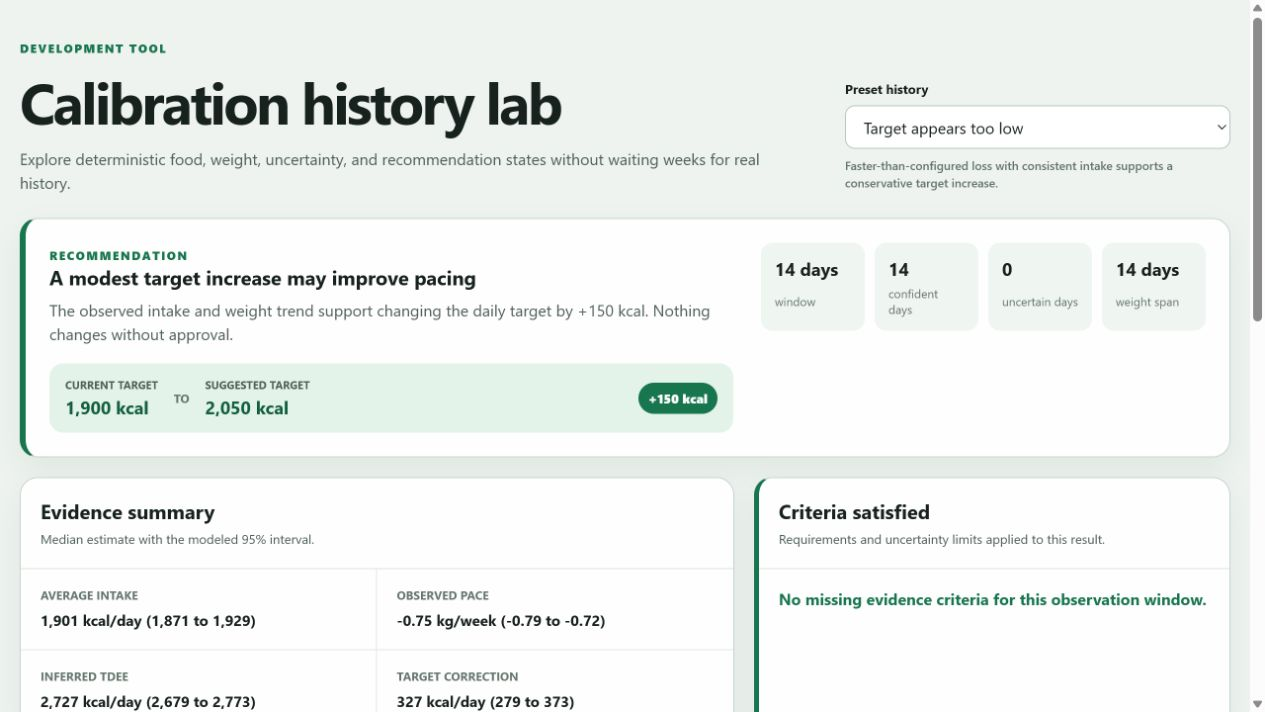
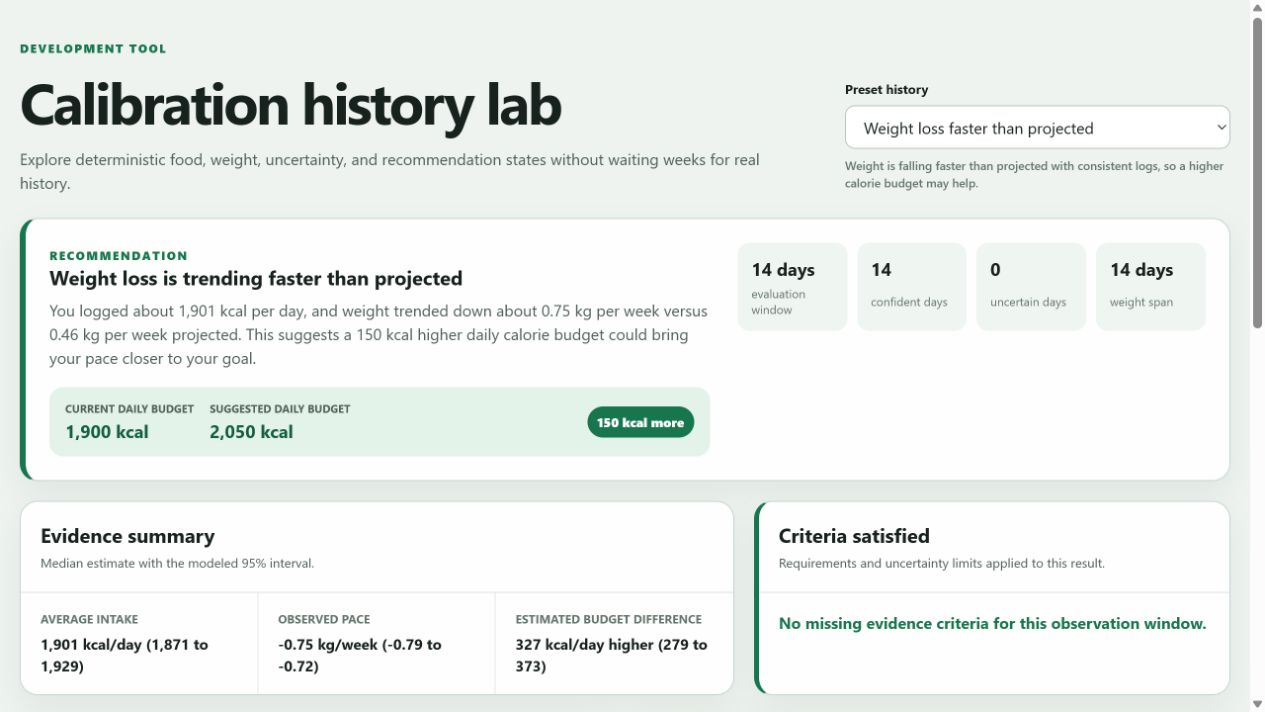
Make calibration recommendations direct

diff --git a/mobile/src/components/CalibrationInsightCard.tsx b/mobile/src/components/CalibrationInsightCard.tsx
@@ -13,7 +13,8 @@ import { SectionHeader } from './SectionHeader';
 import { useAuth } from '../auth/AuthContext';
 import {
     describeCalibrationEvidence,
-    formatCalorieInterval,
+    formatCalorieBudgetChange,
+    formatCalorieBudgetInterval,
     formatWeightPace
 } from '../calibration/presentation';
 import { formatDateOnlyForDisplay } from '../utils/dates';
@@ -92,13 +93,13 @@ export const CalibrationInsightCard: React.FC<ViewProps> = ({ style, ...props })
                     <View style={styles.scheduledRow}>
                         <Ionicons name="calendar-outline" size={18} color={colors.primaryDark} />
                         <AppText style={styles.scheduledText}>
-                            Accepted adjustment {scheduledChange.targetAdjustmentKcal > 0 ? '+' : ''}{scheduledChange.targetAdjustmentKcal} kcal starts {formatDateOnlyForDisplay(scheduledChange.effectiveLocalDate)}.
+                            Your {formatCalorieBudgetChange(scheduledChange.targetAdjustmentKcal)} daily calorie budget starts {formatDateOnlyForDisplay(scheduledChange.effectiveLocalDate)}.
                         </AppText>
                     </View>
                 )}
                 {status?.recommendation && recommendation && (
                     <AppButton
-                        title="Review suggested target"
+                        title="Review suggested budget"
                         variant="secondary"
                         leftIcon={<Ionicons name="options-outline" size={18} color={colors.text} />}
                         onPress={() => setIsReviewOpen(true)}
@@ -108,18 +109,18 @@ export const CalibrationInsightCard: React.FC<ViewProps> = ({ style, ...props })
 
             <BottomSheetModal visible={isReviewOpen} onRequestClose={() => setIsReviewOpen(false)}>
                 <SectionHeader
-                    title="Review calorie target"
-                    description="This changes the calibrated target, not your configured deficit goal."
+                    title="Review calorie budget"
+                    description="Compare the current and suggested daily budgets. Your weight goal stays the same."
                 />
                 {recommendation && (
                     <>
                         <View style={styles.tileRow}>
-                            <MetricTile label="current target" value={`${recommendation.currentTargetKcal.toLocaleString()} kcal`} />
-                            <MetricTile label="suggested target" value={`${recommendation.recommendedTargetKcal.toLocaleString()} kcal`} tone="success" />
+                            <MetricTile label="current budget" value={`${recommendation.currentTargetKcal.toLocaleString()} kcal`} />
+                            <MetricTile label="suggested budget" value={`${recommendation.recommendedTargetKcal.toLocaleString()} kcal`} tone="success" />
                         </View>
                         <View style={styles.tileRow}>
                             <MetricTile label="observed pace" value={formatWeightPace(evaluation.estimates.observedWeeklyWeightChangeKg)} />
-                            <MetricTile label="estimated correction" value={formatCalorieInterval(evaluation.estimates.targetAdjustmentKcal)} />
+                            <MetricTile label="estimated budget difference" value={formatCalorieBudgetInterval(evaluation.estimates.targetAdjustmentKcal)} />
                         </View>
                     </>
                 )}
@@ -133,12 +134,12 @@ export const CalibrationInsightCard: React.FC<ViewProps> = ({ style, ...props })
                     </View>
                 )}
                 <AppText variant="caption">
-                    If accepted, the adjustment takes effect on your next local day. Future evidence can support another bounded change.
+                    If you apply this budget, it starts on your next local day. You can review future suggestions the same way.
                 </AppText>
                 {applyRecommendation.error && <AppText style={styles.error}>{applyRecommendation.error.message}</AppText>}
                 <View style={styles.actions}>
                     <AppButton
-                        title="Keep current target"
+                        title="Keep current budget"
                         variant="secondary"
                         disabled={applyRecommendation.isPending}
                         onPress={() => setIsReviewOpen(false)}

diff --git a/shared/calibration.ts b/shared/calibration.ts
@@ -474,6 +474,31 @@ function emptyQuality(): CalibrationDataQuality {
     };
 }
 
+function describeRecommendationPace(observedWeeklyKg: number, configuredWeeklyKg: number): string {
+    if (configuredWeeklyKg < -0.01) {
+        return observedWeeklyKg < configuredWeeklyKg
+            ? 'Weight loss is trending faster than projected'
+            : 'Weight loss is trending slower than projected';
+    }
+    if (configuredWeeklyKg > 0.01) {
+        return observedWeeklyKg > configuredWeeklyKg
+            ? 'Weight gain is trending faster than projected'
+            : 'Weight gain is trending slower than projected';
+    }
+    if (observedWeeklyKg < -0.01) return 'Weight is trending down instead of staying steady';
+    return 'Weight is trending up instead of staying steady';
+}
+
+function describeWeeklyTrend(weeklyKg: number): string {
+    if (Math.abs(weeklyKg) <= 0.01) return 'weight stayed about steady';
+    return `weight trended ${weeklyKg < 0 ? 'down' : 'up'} about ${Math.abs(weeklyKg).toFixed(2)} kg per week`;
+}
+
+function describeProjectedWeeklyTrend(weeklyKg: number): string {
+    if (Math.abs(weeklyKg) <= 0.01) return 'staying steady as projected';
+    return `${Math.abs(weeklyKg).toFixed(2)} kg per week projected`;
+}
+
 /**
  * Evaluate recent intake and weight evidence without mutating state.
  *
@@ -540,8 +565,11 @@ export function evaluateCalibration(input: CalibrationInput): CalibrationResult 
         summary = 'Keep logging food across multiple meals and recording weights. Missing days remain part of the uncertainty rather than being ignored.';
     } else if (recommendation) {
         status = 'recommendation';
-        headline = recommendation.adjustmentStepKcal < 0 ? 'A modest target decrease may improve pacing' : 'A modest target increase may improve pacing';
-        summary = `The observed intake and weight trend support changing the daily target by ${recommendation.adjustmentStepKcal > 0 ? '+' : ''}${recommendation.adjustmentStepKcal} kcal. Nothing changes without approval.`;
+        const observedWeekly = selected.weeklyWeightChange?.midpoint ?? 0;
+        const averageIntake = Math.round(selected.averageIntake?.midpoint ?? 0).toLocaleString('en-US');
+        const budgetDirection = recommendation.adjustmentStepKcal < 0 ? 'lower' : 'higher';
+        headline = describeRecommendationPace(observedWeekly, configuredWeeklyWeightChangeKg);
+        summary = `You logged about ${averageIntake} kcal per day, and ${describeWeeklyTrend(observedWeekly)} versus ${describeProjectedWeeklyTrend(configuredWeeklyWeightChangeKg)}. This suggests a ${Math.abs(recommendation.adjustmentStepKcal)} kcal ${budgetDirection} daily calorie budget could bring your pace closer to your goal.`;
     } else {
         status = 'insight';
         const weekly = selected.weeklyWeightChange?.midpoint ?? 0;

diff --git a/tools/calibration-lab/main.js b/tools/calibration-lab/main.js
@@ -1,4 +1,4 @@
-import { formatDayCount, getWindowMetric } from './presentation.mjs';
+import { formatBudgetChange, formatBudgetInterval, formatDayCount, getWindowMetric } from './presentation.mjs';
 
 const elements = {
   scenario: document.querySelector('#preset-history'),
@@ -61,8 +61,8 @@ function renderResult(result) {
   elements.targetChange.hidden = !result.recommendation;
   if (result.recommendation) {
     for (const [label, value] of [
-      ['Current target', `${formatNumber(result.recommendation.currentTargetKcal)} kcal`],
-      ['Suggested target', `${formatNumber(result.recommendation.recommendedTargetKcal)} kcal`]
+      ['Current daily budget', `${formatNumber(result.recommendation.currentTargetKcal)} kcal`],
+      ['Suggested daily budget', `${formatNumber(result.recommendation.recommendedTargetKcal)} kcal`]
     ]) {
       const group = document.createElement('span');
       const small = document.createElement('small');
@@ -74,7 +74,7 @@ function renderResult(result) {
     }
     const change = document.createElement('em');
     const step = result.recommendation.adjustmentStepKcal;
-    change.textContent = `${step > 0 ? '+' : ''}${step} kcal`;
+    change.textContent = formatBudgetChange(step);
     elements.targetChange.append(change);
   }
 
@@ -89,7 +89,7 @@ function renderResult(result) {
   const estimates = [
     ['Average intake', formatInterval(result.estimates.averageIntakeKcal, 'kcal/day')],
     ['Observed pace', formatInterval(result.estimates.observedWeeklyWeightChangeKg, 'kg/week', 2)],
-    ['Target correction', formatInterval(result.estimates.targetAdjustmentKcal, 'kcal/day')]
+    ['Estimated budget difference', formatBudgetInterval(result.estimates.targetAdjustmentKcal)]
   ];
   for (const [label, value] of estimates) {
     const item = document.createElement('div');

diff --git a/mobile/src/calibration/presentation.test.ts b/mobile/src/calibration/presentation.test.ts
@@ -1,11 +1,16 @@
-import { describeCalibrationEvidence, formatCalorieInterval, formatWeightPace } from './presentation';
+import {
+    describeCalibrationEvidence,
+    formatCalorieBudgetChange,
+    formatCalorieBudgetInterval,
+    formatWeightPace
+} from './presentation';
 
 describe('calibration presentation', () => {
     it('formats transparent intervals rather than showing false precision', () => {
-        expect(formatCalorieInterval({ low: 2100.2, midpoint: 2210.6, high: 2325.1 }))
-            .toBe('2,211 kcal (2,100 to 2,325)');
-        expect(formatCalorieInterval({ low: -484.2, midpoint: -349.3, high: -188.1 }))
-            .toBe('-349 kcal (-484 to -188)');
+        expect(formatCalorieBudgetInterval({ low: 2100.2, midpoint: 2210.6, high: 2325.1 }))
+            .toBe('2,211 kcal higher (2,100 to 2,325)');
+        expect(formatCalorieBudgetInterval({ low: -484.2, midpoint: -349.3, high: -188.1 }))
+            .toBe('349 kcal lower (188 to 484)');
         expect(formatWeightPace({ low: -0.5, midpoint: -0.32, high: -0.1 })).toBe('-0.32 kg/week');
     });
 
@@ -23,5 +28,10 @@ describe('calibration presentation', () => {
                 weightSpanDays: 20
             }
         } as never)).toBe('16 confident food days | 9 weights across 20 days | 3 uncertain days');
+    });
+
+    it('describes calorie budget changes without ambiguous signs', () => {
+        expect(formatCalorieBudgetChange(-150)).toBe('150 kcal lower');
+        expect(formatCalorieBudgetChange(150)).toBe('150 kcal higher');
     });
 });

diff --git a/backend/test/calibration-evaluator.test.js b/backend/test/calibration-evaluator.test.js
@@ -91,6 +91,11 @@ test('caps an actionable target correction at 150 kcal', () => {
   assert.equal(result.selectedWindowDays, 14);
   assert.equal(result.recommendation.adjustmentStepKcal, -150);
   assert.equal(result.recommendation.recommendedTargetKcal, 1750);
+  assert.equal(result.headline, 'Weight loss is trending slower than projected');
+  assert.match(result.summary, /logged about 1,900 kcal per day/);
+  assert.match(result.summary, /weight trended down about 0\.23 kg per week versus 0\.46 kg per week projected/);
+  assert.match(result.summary, /150 kcal lower daily calorie budget/);
+  assert.doesNotMatch(result.summary, /approval|target decrease|change the daily target/i);
 });
 
 test('caps an upward target correction at 150 kcal', () => {
@@ -98,6 +103,10 @@ test('caps an upward target correction at 150 kcal', () => {
   assert.equal(result.status, 'recommendation');
   assert.equal(result.recommendation.adjustmentStepKcal, 150);
   assert.equal(result.recommendation.recommendedTargetKcal, 2050);
+  assert.equal(result.headline, 'Weight loss is trending faster than projected');
+  assert.match(result.summary, /weight trended down about 0\.75 kg per week versus 0\.46 kg per week projected/);
+  assert.match(result.summary, /150 kcal higher daily calorie budget/);
+  assert.doesNotMatch(result.summary, /approval|target increase|change the daily target/i);
 });
 
 test('requires at least three weights before recommending a change', () => {

diff --git a/mobile/src/calibration/presentation.ts b/mobile/src/calibration/presentation.ts
@@ -1,7 +1,13 @@
 import type { CalibrationInterval, CalibrationResult } from '@calibrate/shared';
 
-export function formatCalorieInterval(value: CalibrationInterval | null): string {
+export function formatCalorieBudgetInterval(value: CalibrationInterval | null): string {
     if (!value) return 'Not enough evidence';
+    if (value.high < 0) {
+        return `${Math.abs(Math.round(value.midpoint)).toLocaleString()} kcal lower (${Math.abs(Math.round(value.high)).toLocaleString()} to ${Math.abs(Math.round(value.low)).toLocaleString()})`;
+    }
+    if (value.low > 0) {
+        return `${Math.round(value.midpoint).toLocaleString()} kcal higher (${Math.round(value.low).toLocaleString()} to ${Math.round(value.high).toLocaleString()})`;
+    }
     return `${Math.round(value.midpoint).toLocaleString()} kcal (${Math.round(value.low).toLocaleString()} to ${Math.round(value.high).toLocaleString()})`;
 }
 
@@ -9,6 +15,10 @@ export function formatWeightPace(value: CalibrationInterval | null): string {
     if (!value) return 'Not enough evidence';
     const sign = value.midpoint > 0 ? '+' : '';
     return `${sign}${value.midpoint.toFixed(2)} kg/week`;
+}
+
+export function formatCalorieBudgetChange(stepKcal: number): string {
+    return `${Math.abs(stepKcal)} kcal ${stepKcal < 0 ? 'lower' : 'higher'}`;
 }
 
 export function describeCalibrationEvidence(result: CalibrationResult): string {

diff --git a/shared/calibrationScenarios.ts b/shared/calibrationScenarios.ts
@@ -114,8 +114,8 @@ export const CALIBRATION_SCENARIOS: CalibrationScenario[] = [
     },
     {
         id: 'target-too-high',
-        name: 'Target appears too high',
-        description: 'Consistent target adherence with a slower trend supports a conservative decrease.',
+        name: 'Weight loss slower than projected',
+        description: 'Weight is falling more slowly than projected despite consistent logs, so a lower calorie budget may help.',
         input: {
             ...baseInput,
             foodDays: buildFoodDays({ days: 28, calories: 1900 }),
@@ -124,8 +124,8 @@ export const CALIBRATION_SCENARIOS: CalibrationScenario[] = [
     },
     {
         id: 'target-too-low',
-        name: 'Target appears too low',
-        description: 'Faster-than-configured loss with consistent intake supports a conservative target increase.',
+        name: 'Weight loss faster than projected',
+        description: 'Weight is falling faster than projected with consistent logs, so a higher calorie budget may help.',
         input: {
             ...baseInput,
             foodDays: buildFoodDays({ days: 28, calories: 1900 }),
